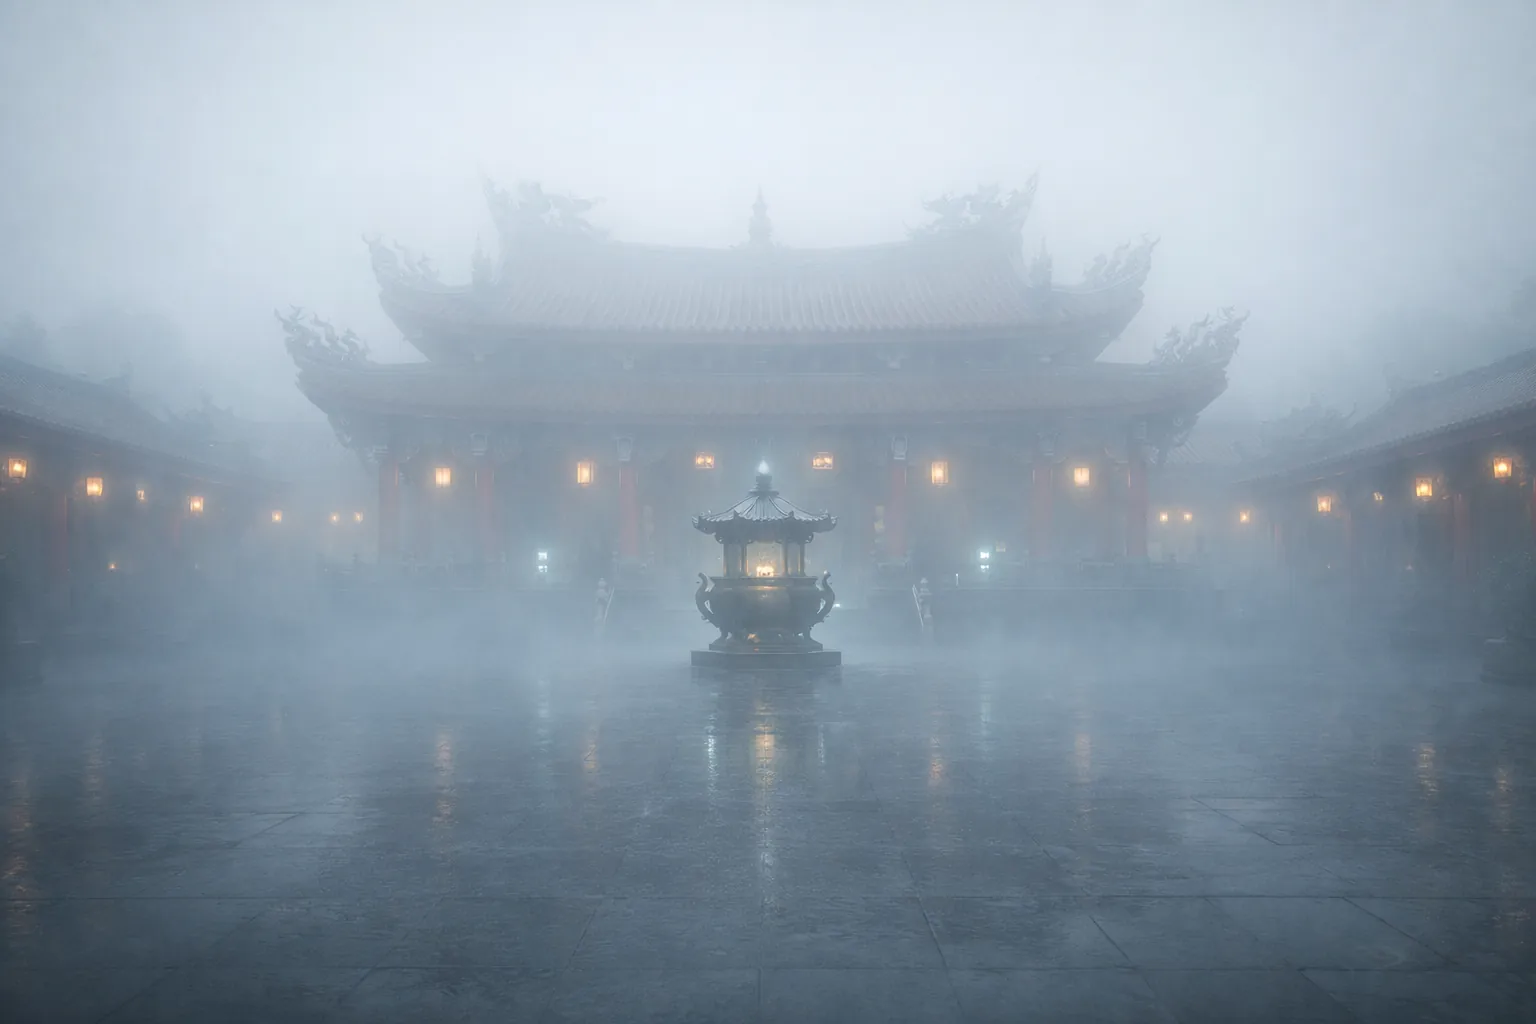
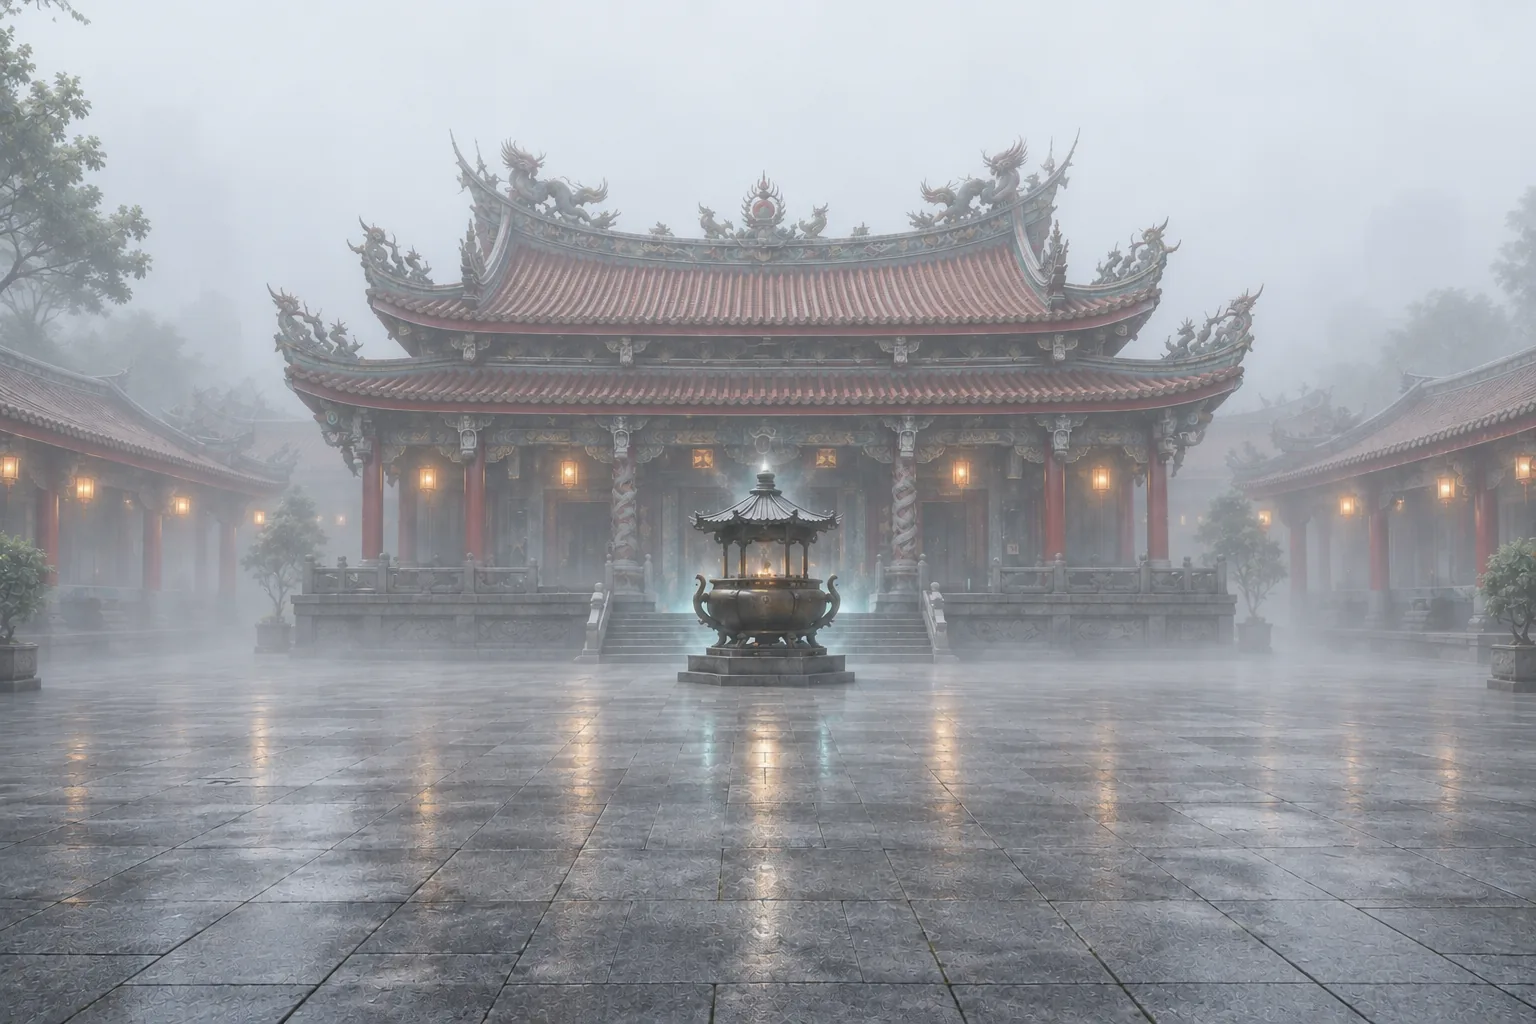
Update approved Xingtian Temple backgrounds and artwork workflow

diff --git a/docs/01_system_architecture_and_data_model.md b/docs/01_system_architecture_and_data_model.md
@@ -723,7 +723,7 @@ Pack 代表一組在特定情境下可成立、可被玩、可被接受的內容
 
 `output/background-trials/<city>-<district>/`
 
-已核准的 medium 母檔固定放在：
+已核准的交付母檔固定放在（不以 API quality 參數命名）：
 
 `output/background-finals/<city>-<district>/`
 
@@ -800,24 +800,25 @@ Playwright 預覽圖屬於本地驗證產物，固定放在 `output/playwright/`
 - 正式 runtime 背景目標大小為 `150 KB - 350 KB`
 - 正式 runtime 背景硬上限為 `500 KB`
 
-品質分層：
+現行產圖入口與品質紀錄：
 
-- `trial`：`low`
-- `final background`：`medium`
-- `high` 只保留給少數宣傳級主視覺，不是背景圖預設
+- 本專案改由使用者指定的側邊欄 ChatGPT 內建圖片功能產圖、修圖；不使用舊的付費 API、imagegen CLI 或本 Codex 對話的產圖工具
+- 原先 `trial-low -> final-medium-edit` 是舊 API 流程的歷史規格，不再是現行定稿的必要步驟
+- 側邊欄若未提供圖片引擎版本或 `low / medium / high` 控制，不得聲稱已指定、驗證或升階；也不得以此為由切回 API
+- WebP 編碼器的 quality 只控制本機壓縮，與生圖品質參數分開記錄
+- 產圖入口不可用時停止並回報，不改全域 API Key、shell 設定或其他專案
 
-升階規則：
+核准與定稿規則：
 
-- `trial-low` 的角色是確認地標、構圖、氣氛與裁切安全區
-- 一旦某張 `trial-low` 被接受，必須先明確指定它是 `lock-master`
-- `final-medium` 不可直接用同一 prompt 重新 `generate`
-- `final-medium` 必須以已核准的 `trial-low` / `lock-master` 為輸入，走 `edit` 升階
-- `edit` 指令必須明確要求：`keep architecture unchanged`、`keep composition unchanged`、`change only weather / detail / polish`
-- 正式流程應視為：`trial-low -> lock-master -> final-medium-edit -> runtime-webp`
-- `final-medium` 的輸出目錄是 `output/background-finals/<city>-<district>/`
-- `runtime-webp` 的導出目錄是 `output/background-runtime/<city>-<district>/`
-- 正式網站讀取目錄是 `images/backgrounds/<city>/<district>/`
-- `final-medium` 與正式 `runtime-webp` 的檔名都固定使用 canonical 名稱，不帶版本尾巴
+- `trial` 用來確認地標、構圖、氣氛與裁切安全區；使用者接受後才指定為 `lock-master`
+- 其餘五種天氣都直接使用同一張已核准晴天母版，不從前一張天氣變體接力衍生
+- 編輯要求包含：`keep architecture unchanged`、`keep composition unchanged`、`change only weather / lighting / atmospheric visibility / weather-related wetness`
+- 六種天氣需逐張核准；全組核准不代表可自行替換正式圖或發布，仍需使用者授權正式替換
+- 已核准且符合尺寸、格式與容量上限的 WebP 可直接定稿，不為了階段名稱或無法指定的 medium 再生一次
+- 正式流程為：`trial -> lock-master -> five-weather trials -> user-approved set -> runtime-webp`
+- 已核准交付檔存於 `output/background-finals/<city>-<district>/`；匯入前 WebP 存於 `output/background-runtime/<city>-<district>/`；兩者可為同一份已驗證圖檔的位元組相同副本
+- 正式網站只讀取 `images/backgrounds/<city>/<district>/`，檔名固定使用 canonical 名稱，不帶版本尾巴
+- 替換既有景點時只更新其正式檔案；路徑與天氣契約未變，不必修改 manifest 或抽選器
 
 ### 背景 manifest 與中英對應規則
 

diff --git a/docs/02_mvp_experience_and_gameplay_spec.md b/docs/02_mvp_experience_and_gameplay_spec.md
@@ -282,18 +282,16 @@ Reduced motion：
 
 正式節奏固定為：
 
-- 每區先做 `1 個主地標`
-- 先做 `3 張 trial`
-- 通過後再補到 `6 張 final`
-- 第 `2`、`3` 個景點要另外決定，不預設開做
+- 一次只處理使用者指定的 `1 個景點`，不預設開做下一個景點或行政區
+- 透過使用者指定的側邊欄 ChatGPT 產生 `1 張晴天 trial`，接受後鎖定為 `lock-master`
+- 一次交付其餘 `5 種天氣` 的完整規格，每張直接參考同一晴天母版，輸出五個獨立全幅圖檔；不接受拼圖代替五張背景
+- 保留母版的建築比例、構圖與固定奇幻元素，只改天氣、光照、能見度及地面乾濕；不可藉換天氣重新設計主體
+- Codex 在每張完成後下載、辨識天氣、壓縮 WebP、按規範命名並存入試作目錄；核對張數、尺寸與主體一致性
+- 全組經使用者核准後，另取得正式替換授權，才將同一批圖去掉 trial / 版本尾巴並放入正式目錄；不為定稿重新生成
+- 若 ChatGPT 介面沒有引擎版本或品質級別控制，誠實記錄不可確認，不自行改走 API 或宣稱已設定 low / medium
+- 試作與匯入流程的路徑、容量、品質紀錄及權限邊界，以 `docs/01_system_architecture_and_data_model.md` 為準
 
-trial 固定天氣：
-
-- `clear-cloudy`
-- `rain`
-- `thunderstorm`
-
-final 第一批固定天氣：
+完整一組固定六種天氣：
 
 - `clear-cloudy`
 - `overcast`

diff --git a/docs/03_qa_release_and_doc_governance.md b/docs/03_qa_release_and_doc_governance.md
@@ -116,8 +116,12 @@
 - 共享 fallback 背景必須落在 `images/backgrounds/shared/`
 - 正式背景單張目標大小應落在 `150 KB - 350 KB`
 - 正式背景單張不得超過 `500 KB`
-- 已核准的 `trial-low` 升階到 `final-medium` 時，不可直接重新 `generate`
-- `final-medium` 必須能追溯到對應的 `lock-master` 與 `edit` 升階流程
+- 背景定稿前需確認六種天氣都已核准；替換檔須與核准交付檔一致，不得因定稿重新生圖
+- 同一組天氣變體需核對主體比例、屋頂、主要物件與鏡頭位置；格式驗證不能取代逐張視覺審查
+- 側邊欄 ChatGPT 的引擎與生成品質僅能依介面可驗證資訊記錄，不能把本機 WebP quality 當成生圖品質
+- 替換既有景點時核對六個 canonical 路徑、manifest 中英對應與同區同天氣抽選；其他景點與未授權資料不可連帶修改
+- `codex/initial-mvp` 推送會自動部署 GitHub Pages；發布前需取得使用者對此部署影響的授權，不能把一般 GitHub 同步當成純備份
+- 正式檔必須能追溯到已核准的 `lock-master`、天氣變體與使用者正式替換授權；舊 API 的 low / medium 升階不再是現行發布條件
 - 更換圖資後仍符合 safe-frame guide
 - disabled 或缺資料狀態可閱讀
 - 動畫不阻塞最終結果

diff --git a/AGENTS.md b/AGENTS.md
@@ -17,6 +17,7 @@ The product should feel playful, fast, and low-friction:
 3. Prefer the smallest shippable MVP over speculative features.
 4. Preserve Traditional Chinese as the primary product language.
 5. Do not add accounts, multiplayer sync, or progression systems in MVP unless the active docs change first.
+6. For this project, generate and edit artwork through the user-designated sidebar ChatGPT workflow. Do not use API-key-based image generation, the legacy imagegen CLI, or this Codex task's image-generation tool as a fallback. If the sidebar workflow is unavailable, report the blocker; do not change global credentials or other projects. See the background batch rules in `docs/02_mvp_experience_and_gameplay_spec.md`.
 
 ## Source Of Truth
 

diff --git a/docs/00_product_principles_and_scope.md b/docs/00_product_principles_and_scope.md
@@ -238,6 +238,7 @@
 - owner sheet 與 fallback snapshot 已補齊正式 `lat / lng`
 - 結果階段已支援玩家主動觸發定位，顯示遠征地直線距離
 - 台北市中山區 / 行天宮六種正式天氣背景已納入正式背景庫
+- 行天宮六款圖於 `2026-09-24` 更新為使用者核准的 ChatGPT 晴天 v8 母版與同批五種天氣變體；沿用原 canonical 路徑與抽選規則
 - 台北市中山區 / 美麗華百樂園摩天輪六種正式天氣背景已納入正式背景庫
 - 台北市中山區 / 台北市立美術館六種正式天氣背景已納入正式背景庫
 - 台北市松山區 / 松山慈祐宮六種正式天氣背景已納入正式背景庫
